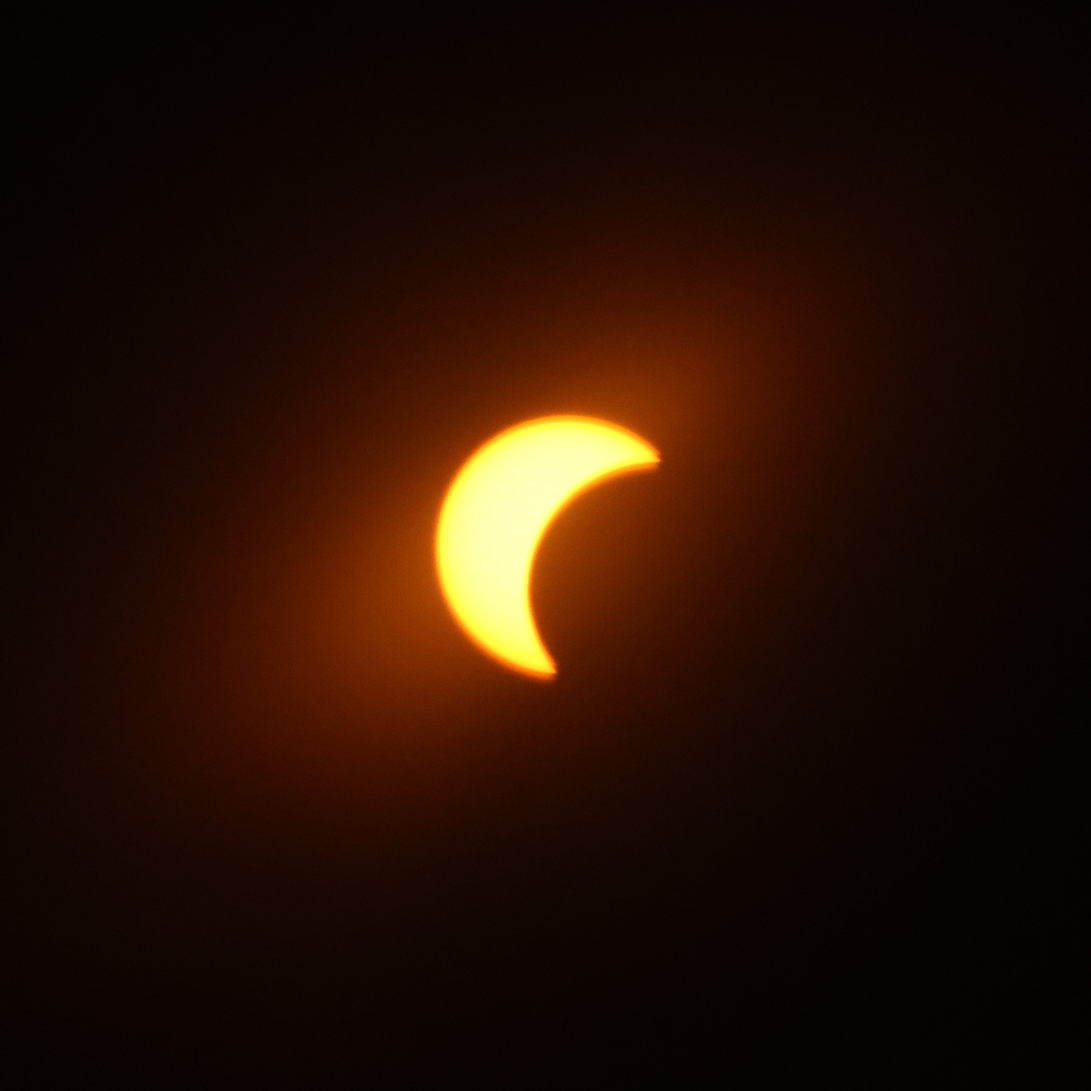
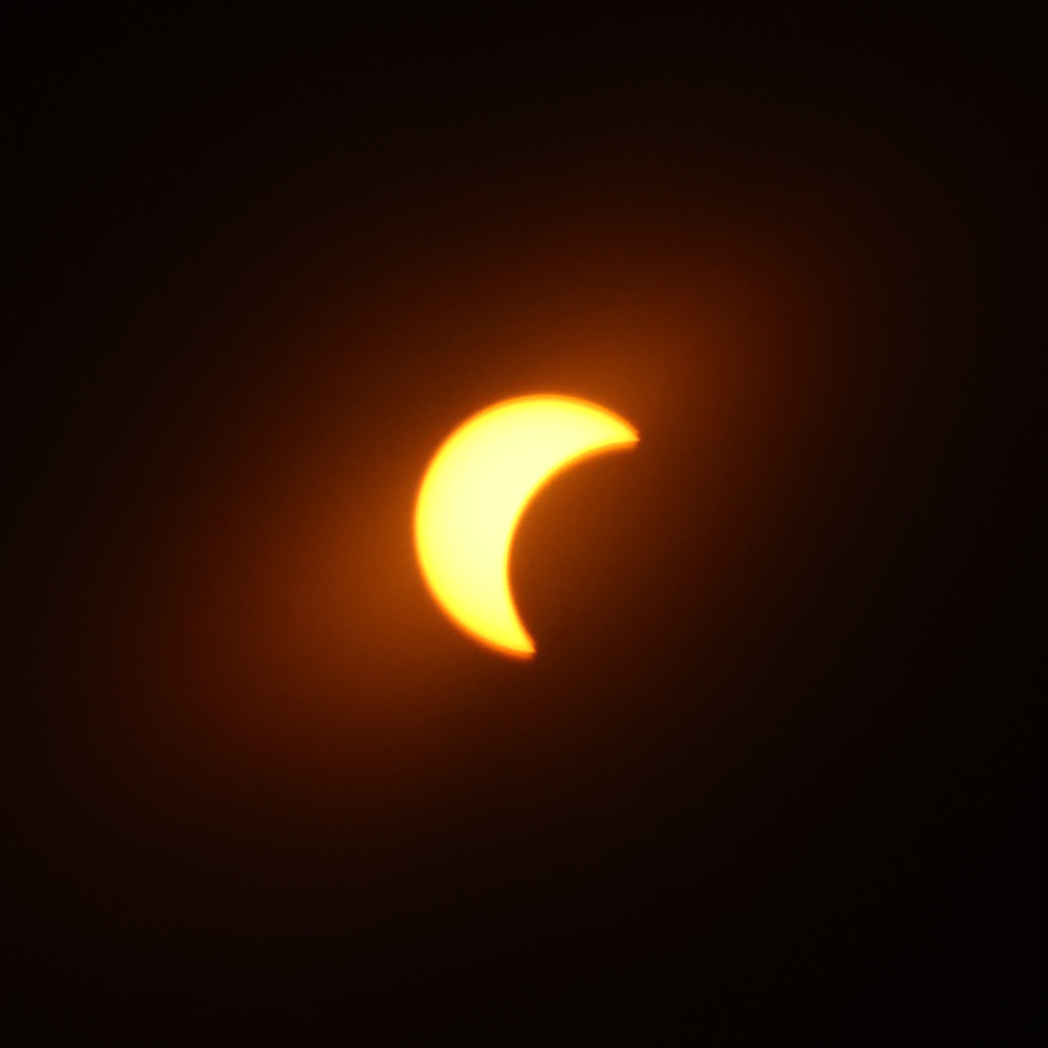
Full 27-frame eclipse sequence including unfiltered horizon shots
Extends the centered sequence with the late frames: filtered crescents to
19:19, the eclipsed sun in twilight haze at 19:30, and the no-filter
sunset shots at 19:47 with the crescent setting into the sea. The four
frames uploaded to main are brought into photos/eclipse/originals.

Detection reworked for bright scenes: connected bright blobs are
clustered around sun-sized seeds (a hazy ring breaks into arc fragments),
small clipped highlights like boat lights and water glitter can't seed a
candidate, and clipped-bright candidates win at the tightest cutoff.
Bright scenes clamp the crop window inside the frame instead of padding
with black, so horizon shots keep a natural edge.

Claude-Session: https://claude.ai/code/session_016y3s2uccwd3fH2JdySAFNg

Changed region(s): [[0.3718, 0.3718, 0.6197, 0.6507]]

diff --git a/scripts/center_eclipse.py b/scripts/center_eclipse.py
@@ -40,44 +40,97 @@ IMAGE_EXTS = {".jpg", ".jpeg", ".png", ".tif", ".tiff", ".webp"}
 EXIF_DATETIME_ORIGINAL = 36867
 
 
-def find_sun(im, threshold_frac):
-    """Return (cx, cy, diameter) of the bright region, or None if not found.
+def _components(gray, cutoff):
+    """8-connected bright blobs as (box, pixel_count, peak) tuples."""
+    w, h = gray.size
+    data = gray.load()
+    bright = {(x, y) for y in range(h) for x in range(w)
+              if data[x, y] >= cutoff}
+    comps = []
+    seen = set()
+    for start in bright:
+        if start in seen:
+            continue
+        seen.add(start)
+        stack, comp = [start], []
+        while stack:
+            x, y = stack.pop()
+            comp.append((x, y))
+            for nx in (x - 1, x, x + 1):
+                for ny in (y - 1, y, y + 1):
+                    if (nx, ny) in bright and (nx, ny) not in seen:
+                        seen.add((nx, ny))
+                        stack.append((nx, ny))
+        xs = [p[0] for p in comp]
+        ys = [p[1] for p in comp]
+        comps.append(((min(xs), min(ys), max(xs), max(ys)), len(comp),
+                      max(data[p[0], p[1]] for p in comp)))
+    return comps
 
-    Tries progressively higher brightness cutoffs, starting from
-    threshold_frac of the frame's peak, until the bright region is plausibly
-    the solar disk rather than the surrounding glow: hazy frames shot low on
-    the horizon can have a halo bright enough to pass a low threshold, which
-    would inflate the detected size several-fold.
+
+def _dim(box):
+    return max(box[2] - box[0], box[3] - box[1]) + 1
+
+
+def _center(box):
+    return ((box[0] + box[2]) / 2, (box[1] + box[3]) / 2)
+
+
+def find_sun(im, threshold_frac):
+    """Return (cx, cy, diameter) of the sun, or None if not found.
+
+    Works on a box-averaged downscale (kills sensor/JPEG noise). At each
+    brightness cutoff, sun-sized blobs seed a candidate; nearby fragments
+    are merged into it, because a deeply-eclipsed ring low on the horizon
+    breaks into separate arcs. Small clipped highlights (boat lights,
+    glitter on water) can never seed a candidate, and the merge radius
+    keeps them out of clusters unless they sit right next to the sun.
+
+    Among candidates, ones that reach the frame's peak brightness win at
+    the tightest cutoff that produced them: the true sun is clipped bright
+    in most exposures, while glow, twilight sky and sunset clouds are not.
+    With no clipped candidate (e.g. a dim ring behind haze), the largest
+    compact cluster — the fullest reconstruction of the ring — wins.
     """
-    # Box-average downscale before thresholding: isolated noisy pixels in the
-    # glow would otherwise survive the cutoff and stretch the bounding box.
-    factor = max(1, min(im.width, im.height) // 1000)
+    factor = max(1, min(im.width, im.height) // 320)
     gray = im.convert("L").reduce(factor)
     peak = gray.getextrema()[1]
     if peak < 40:  # frame is essentially black
         return None
-    # Try high cutoffs first: the disk is near the frame's peak brightness,
-    # while the surrounding glow — often asymmetric in hazy shots — would
-    # pull the box off-center at lower cutoffs. Lower fractions are only a
-    # fallback for dim frames, and threshold_frac is the floor.
     max_extent = 0.4 * min(gray.width, gray.height)
-    for frac in (0.85, 0.92, 0.7, 0.55, threshold_frac):
+    min_dim = max(32, min(im.width, im.height) * 0.02) / factor
+    candidates = []  # (cutoff_frac, cluster_dim, seed_peak, cx, cy)
+    for frac in (0.92, 0.85, 0.75, 0.65, 0.55, threshold_frac):
         cutoff = max(20, int(peak * frac))
-        mask = gray.point(lambda p: 255 if p >= cutoff else 0)
-        bbox = mask.getbbox()
-        if bbox is None:
-            continue
-        left, top, right, bottom = bbox
-        w, h = right - left, bottom - top
-        if w * factor < 32 or h * factor < 32:  # too small to be the sun
-            continue
-        if max(w, h) > max_extent:  # still mostly glow, tighten further
-            continue
-        # The bounding-box center keeps a crescent visually centered, unlike
-        # the brightness centroid which drifts toward the lit limb.
-        return ((left + w / 2) * factor, (top + h / 2) * factor,
-                max(w, h) * factor)
-    return None
+        comps = _components(gray, cutoff)
+        boxes = set()
+        for box, npx, comp_peak in comps:
+            if not min_dim <= _dim(box) <= max_extent:
+                continue
+            # Merge radius scales with the seed: ring arcs sit within a
+            # couple of seed-widths of each other, while glow patches and
+            # other scene lights are farther out.
+            radius = min(2.5 * _dim(box), max_extent / 2)
+            sx, sy = _center(box)
+            cluster = [b for b, _, _ in comps
+                       if abs(_center(b)[0] - sx) <= radius
+                       and abs(_center(b)[1] - sy) <= radius]
+            union = (min(b[0] for b in cluster), min(b[1] for b in cluster),
+                     max(b[2] for b in cluster), max(b[3] for b in cluster))
+            if _dim(union) > max_extent or union in boxes:
+                continue
+            boxes.add(union)
+            cx, cy = _center(union)
+            candidates.append((frac, _dim(union), comp_peak, cx, cy))
+    if not candidates:
+        return None
+    # A genuinely clipped sun seeds a candidate at high cutoffs already; a
+    # blob that is only sun-sized once the cutoff drops far is a small
+    # highlight bloomed by the low threshold, so it doesn't count as sun.
+    clipped = [c for c in candidates if c[2] >= 0.97 * peak and c[0] >= 0.55]
+    # tightest cutoff = the sun without its glow
+    frac, dim, _, cx, cy = max(clipped or candidates)
+    return ((cx + 0.5) * factor, (cy + 0.5) * factor, dim * factor)
 
 
 def capture_time(im, path):
@@ -92,9 +145,25 @@ def capture_time(im, path):
 
 
 def crop_centered(im, cx, cy, size):
-    """Crop a size x size window centered on (cx, cy), padding with black."""
+    """Crop a size x size window centered on (cx, cy).
+
+    If the window runs past the frame, dark-sky shots get black padding
+    (indistinguishable from the sky), while daylight/sunset shots have the
+    window shifted back inside the frame instead — a black bar against a
+    bright sky would be worse than a slightly off-center sun.
+    """
     left = int(round(cx - size / 2))
     top = int(round(cy - size / 2))
+    hist = im.convert("L").reduce(8).histogram()
+    pixels = sum(hist)
+    darker_half = 0
+    for level, count in enumerate(hist):
+        darker_half += count
+        if darker_half >= pixels / 2:
+            break
+    if level >= 20:  # bright scene: clamp the window inside the frame
+        left = max(0, min(left, im.width - size))
+        top = max(0, min(top, im.height - size))
     canvas = Image.new(im.mode, (size, size), 0)
     src = im.crop((max(0, left), max(0, top),
                    min(im.width, left + size), min(im.height, top + size)))
